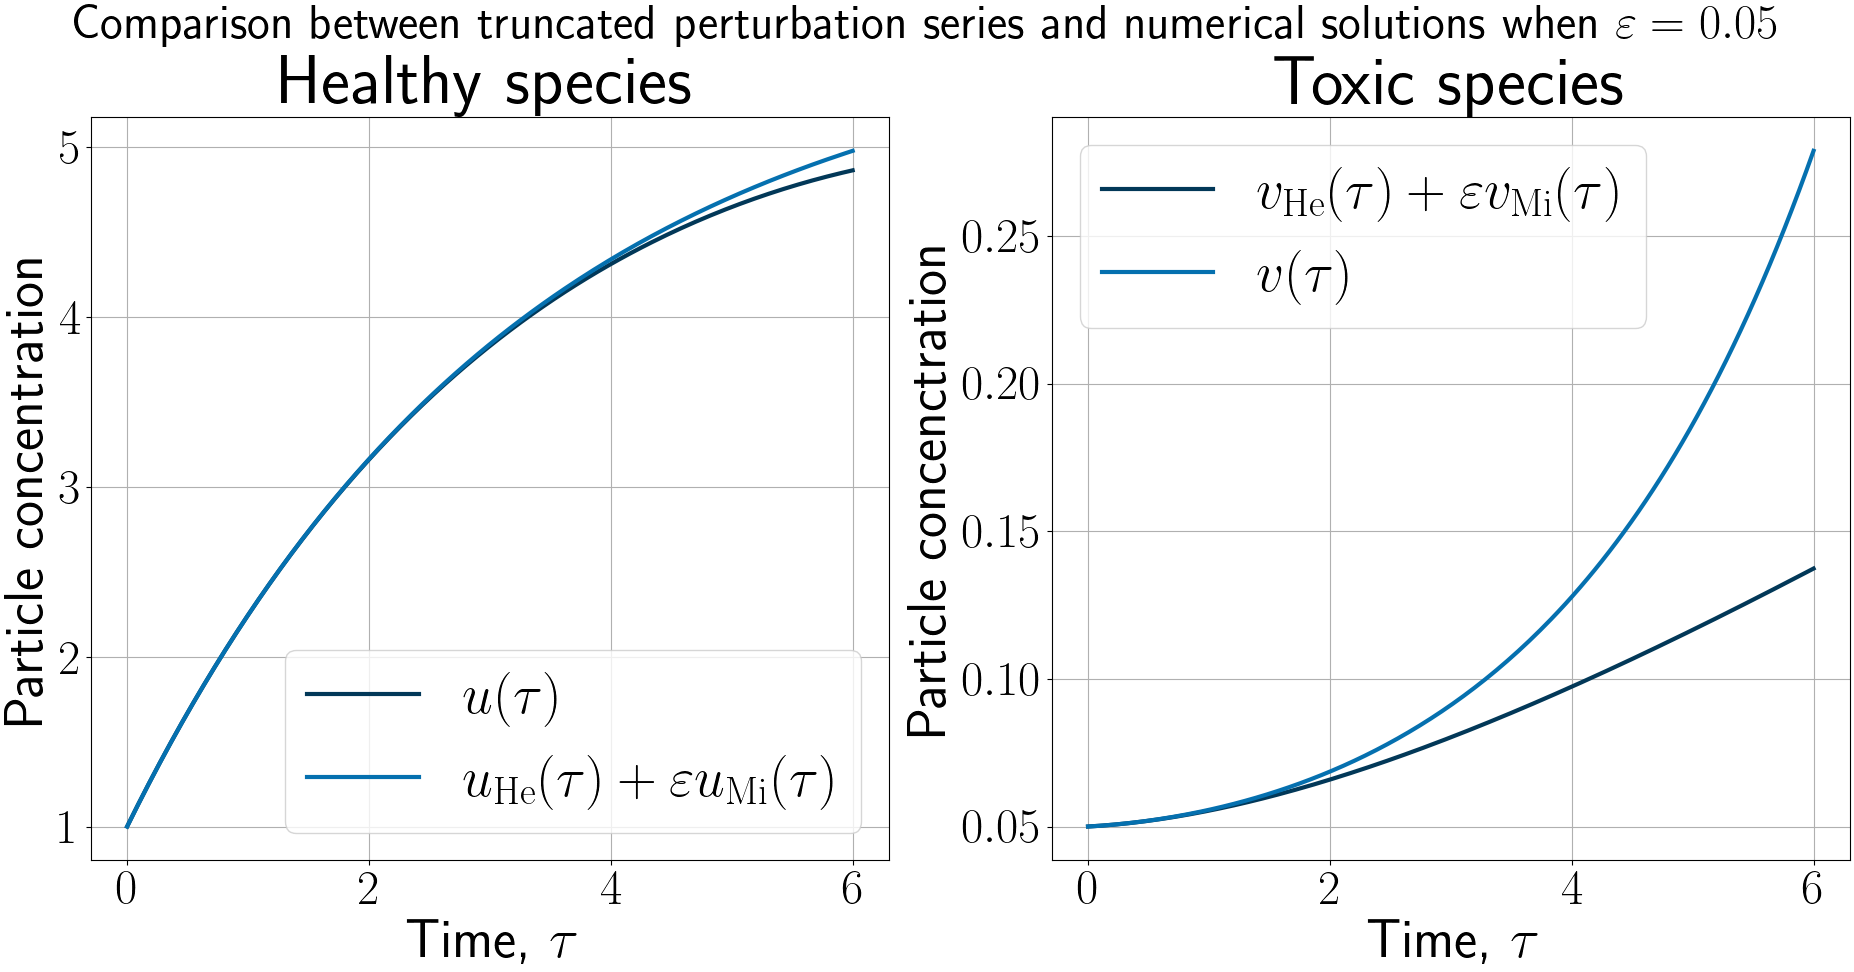
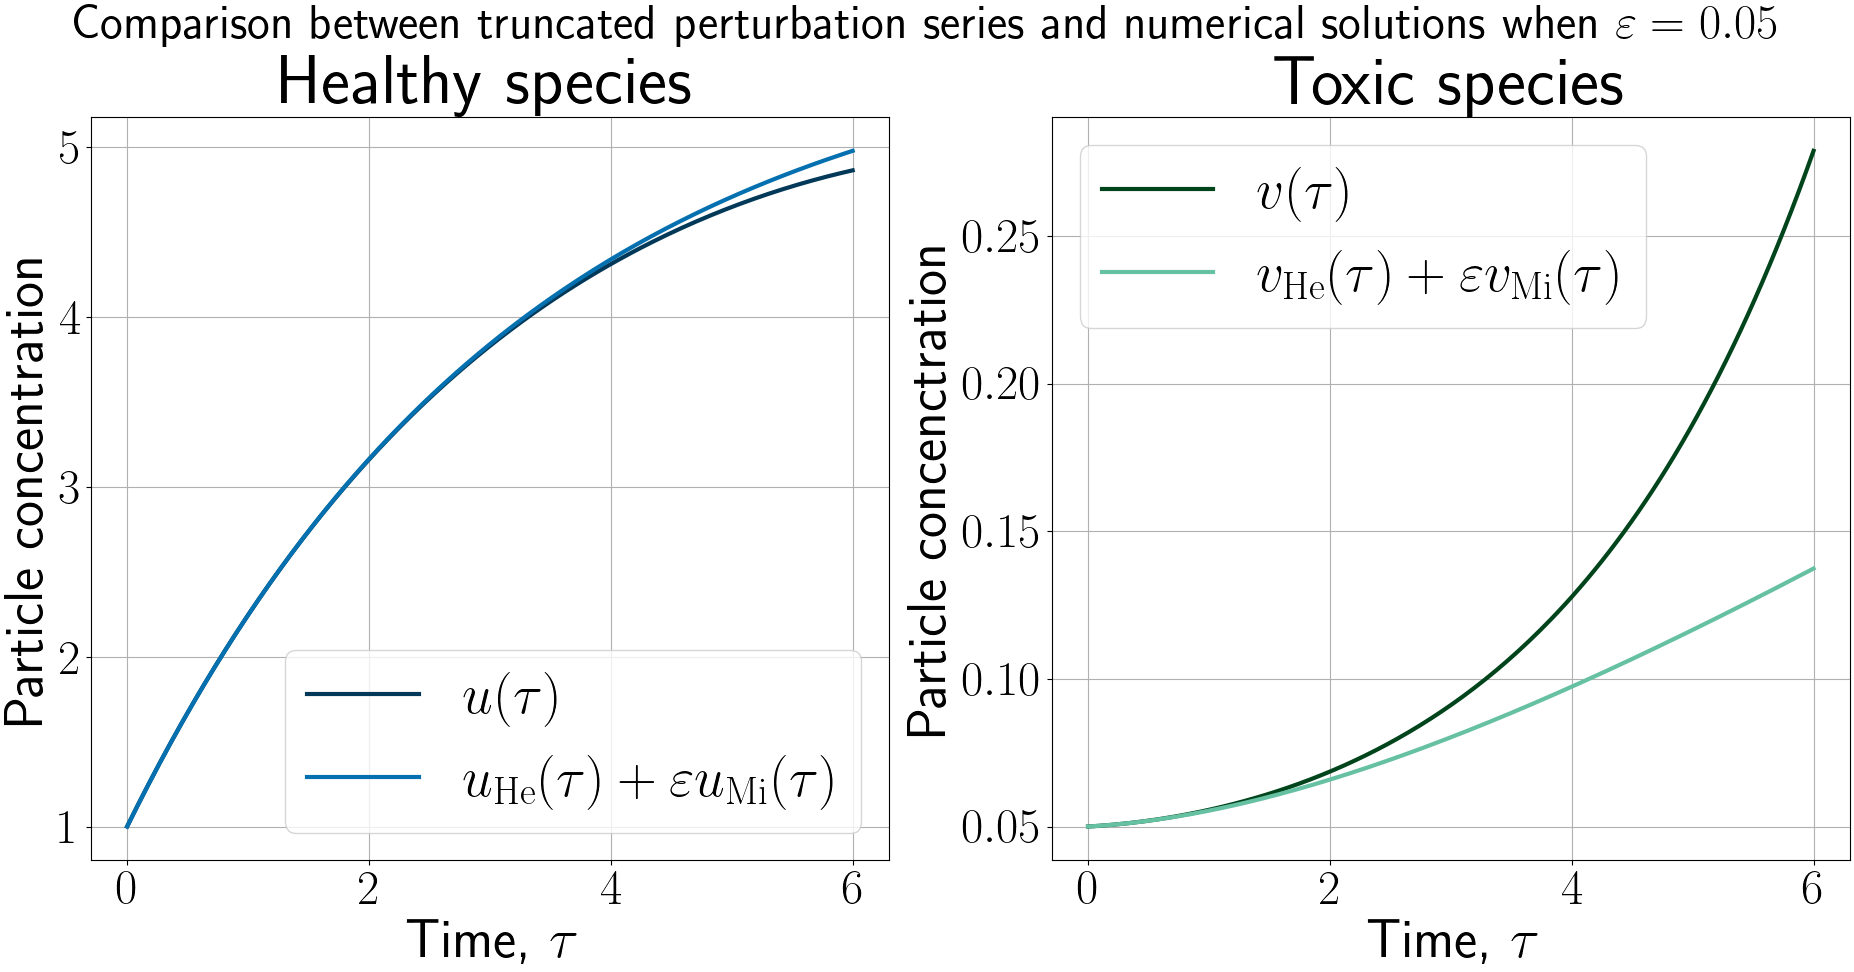
Fixing the colours of the figures

diff --git a/Code/HeMiTo.py b/Code/HeMiTo.py
@@ -142,8 +142,8 @@ def main():
     ax_prions[0].xaxis.set_tick_params(labelsize=35)
     ax_prions[0].yaxis.set_tick_params(labelsize=35)
     # Plot the simulated data and the underlying model
-    ax_prions[1].plot(t,y0[1]*((t+1)/(t+1))+vareps*v_Mi(t, [y0[0], y0[1], c1, c2, f0]),color=(2/256,56/256,88/256),label="$v_{\\mathrm{He}}(\\tau)+\\varepsilon v_{\\mathrm{Mi}}(\\tau)$",linewidth=3.0)
-    ax_prions[1].plot(t,v,color=(5/256,112/256,176/256),label="$v(\\tau)$",linewidth=3.0)
+    ax_prions[1].plot(t,v,color=(0/256,68/256,27/256),label="$v(\\tau)$",linewidth=3.0)
+    ax_prions[1].plot(t,y0[1]*((t+1)/(t+1))+vareps*v_Mi(t, [y0[0], y0[1], c1, c2, f0]),color=(102/256,194/256,164/256),label="$v_{\\mathrm{He}}(\\tau)+\\varepsilon v_{\\mathrm{Mi}}(\\tau)$",linewidth=3.0)
     # Set a grid and define a legend
     ax_prions[1].grid()
     ax_prions[1].legend(loc='best',prop={"size":40})
